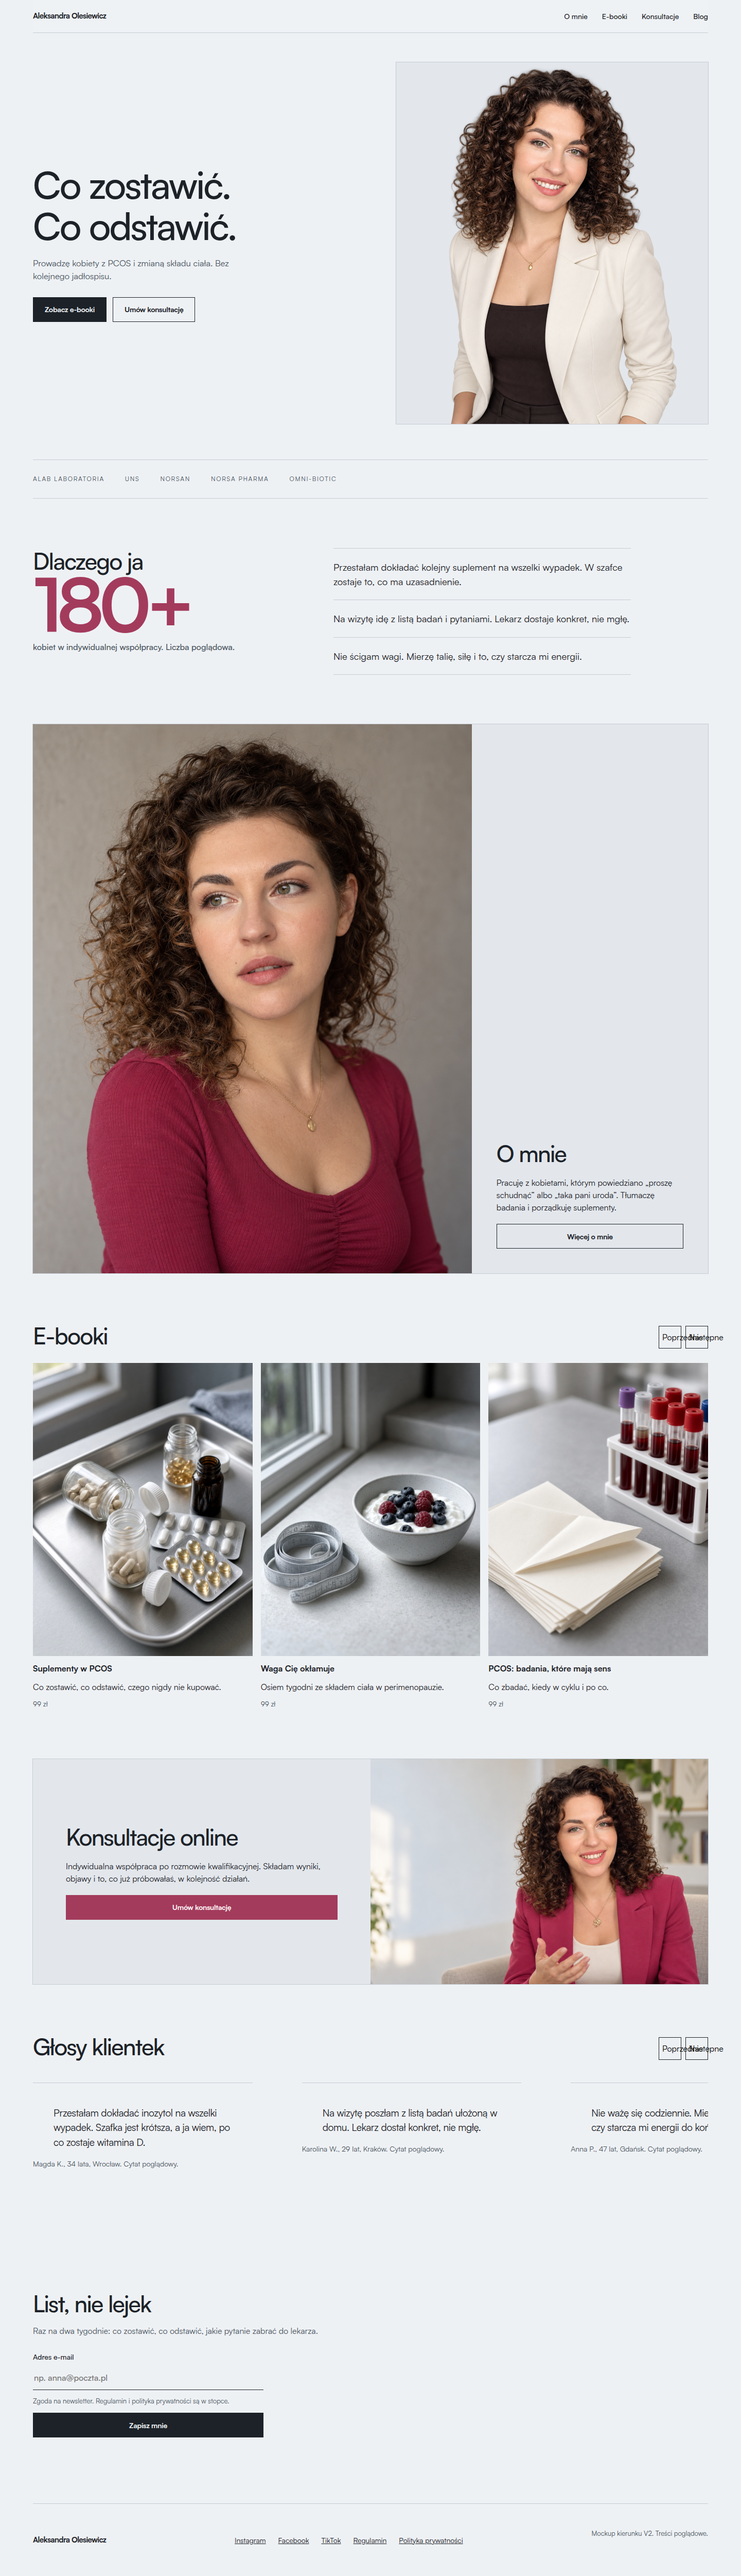
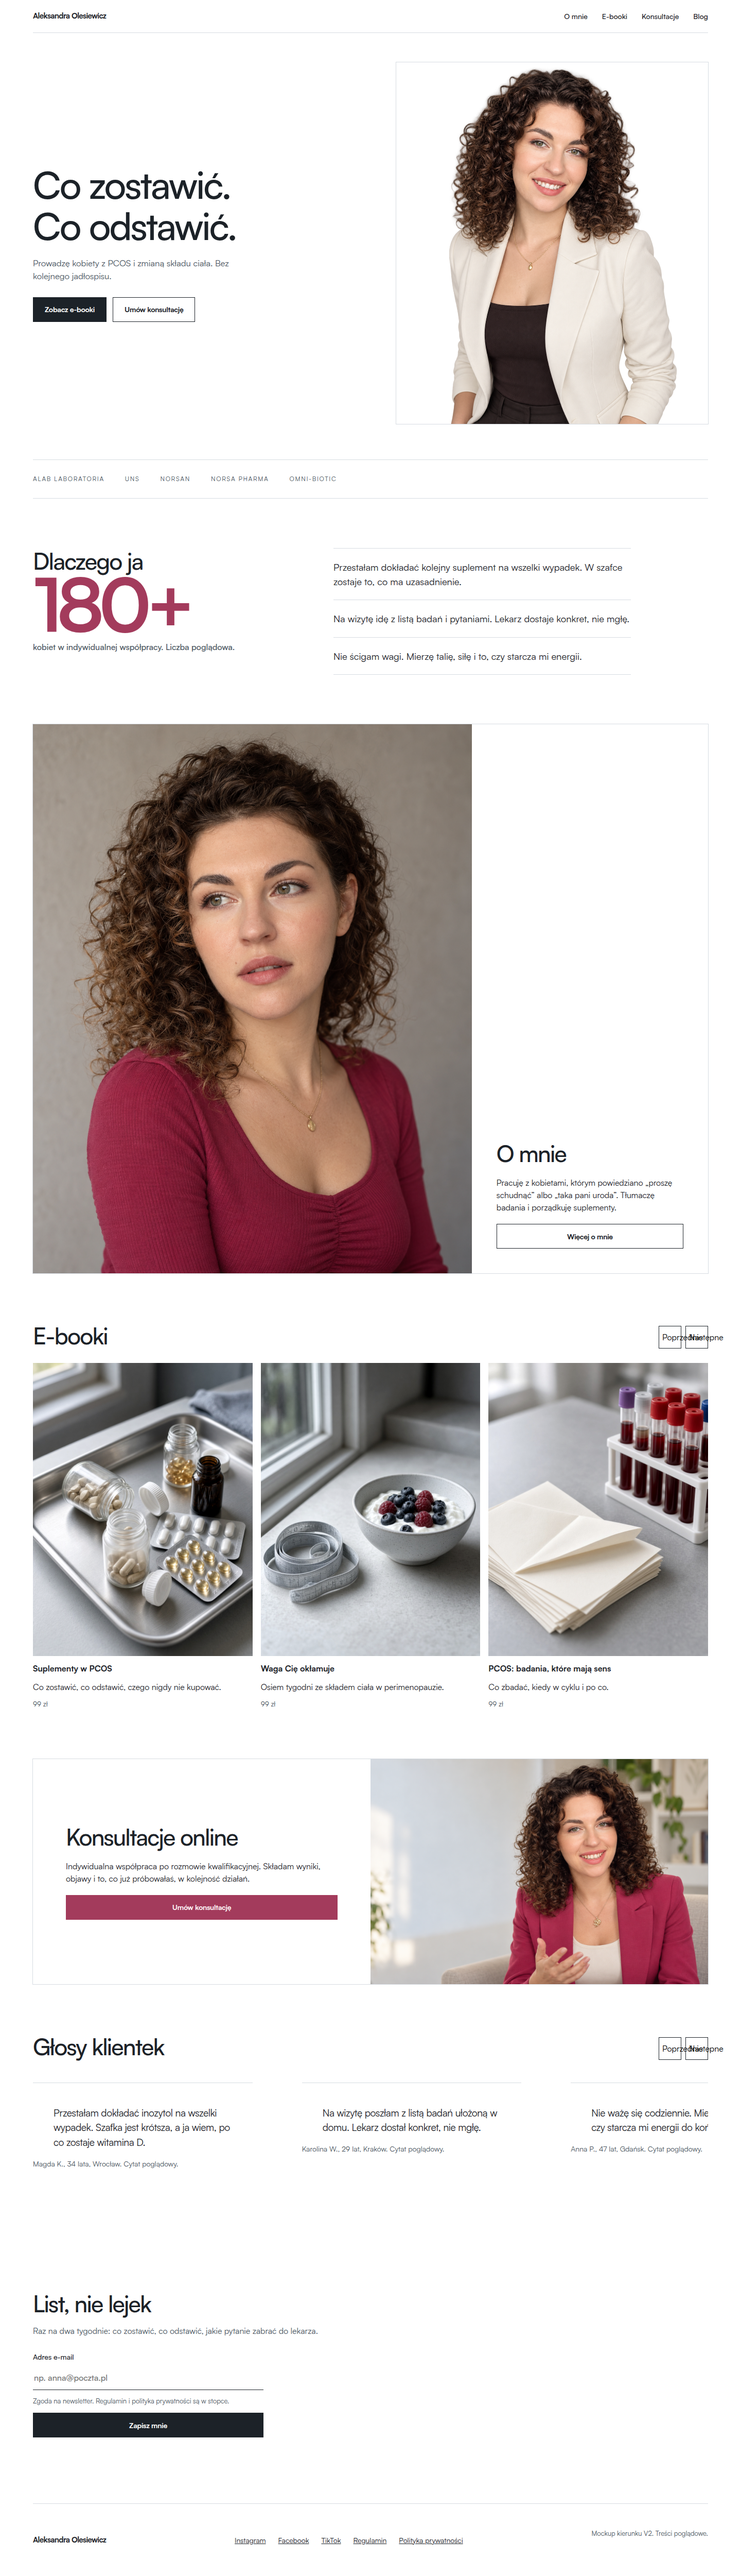
Refresh mockup screenshots for white canvas V1–V4
Viewport and full-page Chromium captures after the V2 white-bg
fix, the protocol-index V3, and the founder-soft V4. Forest
atelier previews are gone.

diff --git a/docs/PROGRESS.md b/docs/PROGRESS.md
@@ -752,32 +752,29 @@ Po cleanup katalog `/tmp/ola-verify-evidence/ola-1790839417/` nadal istnieje.
 
 ## Mockupy strony głównej — 2026-10-05
 
-Trzy samodzielne HTML-e w `mocks/homepage/` do wyboru kierunku. **Nie są**
+Samodzielne HTML-e w `mocks/homepage/` do wyboru kierunku. **Nie są**
 wdrożeniem Astro/Sanity. Draft PR: https://github.com/zawlodzki/nowa-strona-ola/pull/15
-(nie merge’ować).
+(nie merge’ować). Płótno strony: biel `#fff` we wszystkich wersjach.
 
 - V1: język Wonderful z repo (Switzer, tokeny, pill CTA).
-- V2 i V3: plan od zera ze skilla `design-taste-frontend` (v2, nie v1).
-  V2 zimne studio (Satoshi, chłodna szarość, malina z żakietu).
-  V3 atelier leśne (Cabinet Grotesk, zieleń, kość, ta sama malina).
-  Impeccable nie projektował greenfieldu V2/V3. `gpt-taste` wtórnie
-  (editorial split vs. asymetria).
-- Partnerzy jako wordmarki tekstowe, zgodnie z briefem.
-- Liczba 180+ i cytaty oznaczone jako poglądowe.
+- V2: zimne studio na bieli (Satoshi, ostre narożniki, malina). Bez `#EEF1F4`.
+- V3: indeks protokołu (Clash Grotesk + General Sans, kadr, kropki).
+  Zastępuje wycofane atelier leśne.
+- V4: founder/coach, owalne kadry (Chillax + Author).
+- Skill `design-taste-frontend` (v2) planował V2–V4. Partnerzy jako tekst.
+- Liczba 180+ i cytaty poglądowe.
 
-Kontrola Chromium, serwer `python3 -m http.server` w `mocks/homepage/`,
-1440×900 i 390×844: slider e-booków 4 karty / 3 widoczne na desktopie,
-„Następne” przesuwa track, hamburger otwiera nav, newsletter waliduje
-i nic nie wysyła. Zrzuty viewport i full-page w
-`mocks/homepage/previews/`. Nie odpalano osobno 320 px, zoom 200%
-ani `prefers-reduced-motion` (reguły CSS są w HTML).
+Kontrola Chromium 1440×900 i 390×844: `body` białe, slider 3/4 kart,
+przewijanie, hamburger, newsletter bez wysyłki. Zrzuty w
+`mocks/homepage/previews/`. Nie odpalano 320 px, zoom 200%
+ani osobnej sesji `prefers-reduced-motion`.
 
 ## Następny krok
 
 Materiały fotograficzne: dopasować wybrany zestaw do sekcji strony i podłączyć
 media w Sanity. Wybór użytkownika jest zapisany; dalsze kroki techniczne poniżej.
 
-0. Grzesiek wybiera kierunek wizualny z draft PR mockupów (V1 / V2 / V3);
+0. Grzesiek wybiera kierunek wizualny z draft PR mockupów (V1–V4);
    mockupy nie wchodzą na produkcję bez osobnej decyzji.
 1. Odświeżyć `https://preview.aleksandraolesiewicz.com` przy aktywnej sesji
    Access — zamiast 401 powinien być chroniony podgląd szkicu.

diff --git a/mocks/homepage/README.md b/mocks/homepage/README.md
@@ -48,12 +48,13 @@ Brak przepisu stron Astro, schematów Sanity i tras produkcyjnych.
 
 ## Kontrole
 
-Do uzupełnienia po zrzutach Chromium (1440×900 i 390×844):
+Chromium 1440×900 i 390×844, 2026-10-05, serwer `python3 -m http.server` w tym katalogu:
 
-- [ ] Desktop i mobile (zrzuty viewport i full-page w `previews/`)
-- [ ] Slider e-booków: 4 karty, **3 widoczne** na 1440 px
-- [ ] Slider opinii
-- [ ] Menu mobilne
-- [ ] Newsletter: pusty e-mail → błąd; `anna@poczta.pl` → komunikat poglądowy, bez wysyłki
+- [x] Desktop i mobile (zrzuty viewport i full-page w `previews/`) dla V1–V4
+- [x] Slider e-booków: 4 karty, **3 widoczne** na 1440 px
+- [x] Slider opinii
+- [x] Menu mobilne
+- [x] Newsletter: pusty e-mail → błąd; `anna@poczta.pl` → komunikat poglądowy, bez wysyłki
+- [x] `body` tło `rgb(255, 255, 255)` we wszystkich czterech
 - [ ] `prefers-reduced-motion`: reguły CSS są; nie odpalano osobnej sesji
 - [ ] 320 px, zoom 200%, klawiatura end-to-end
